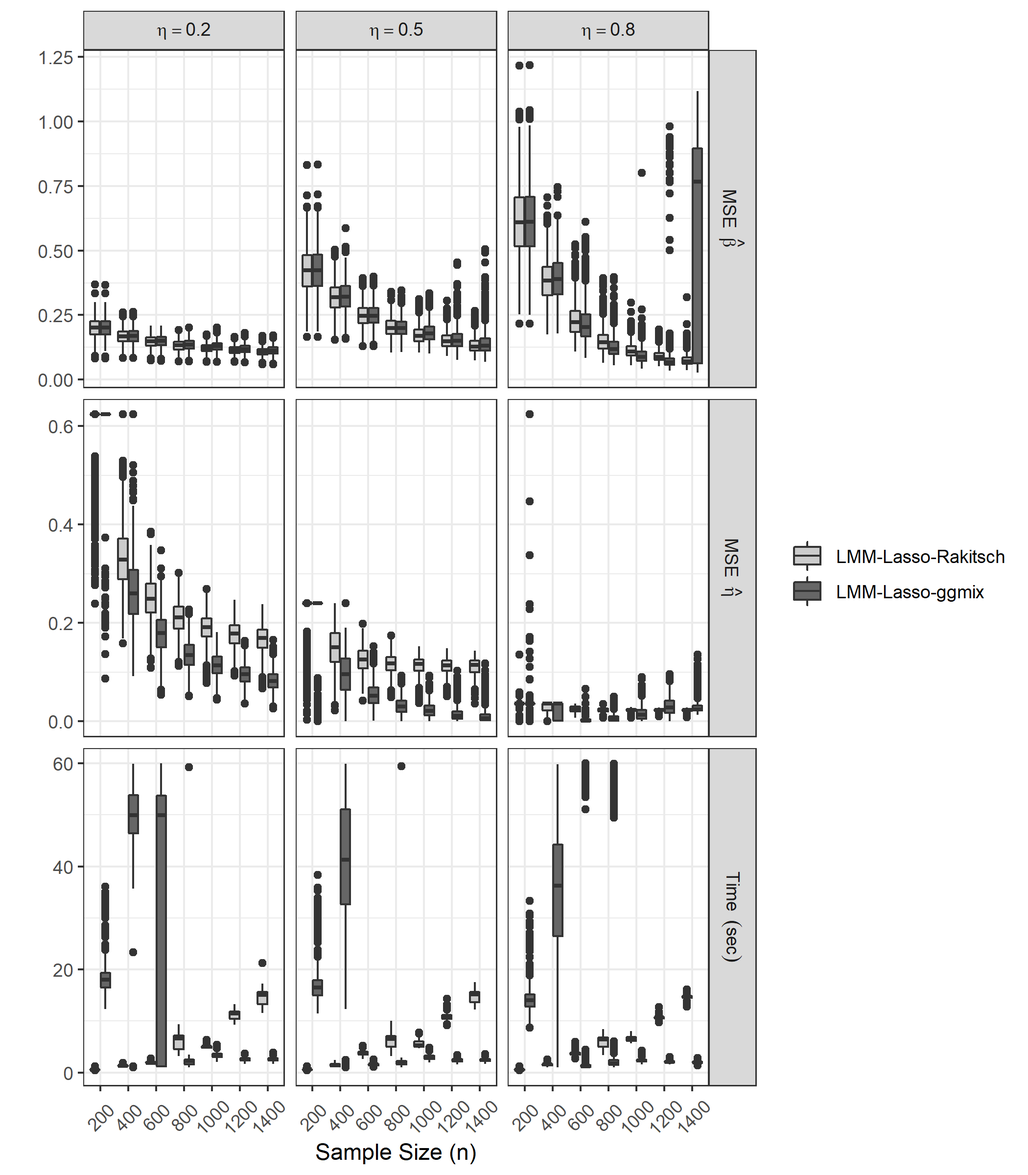
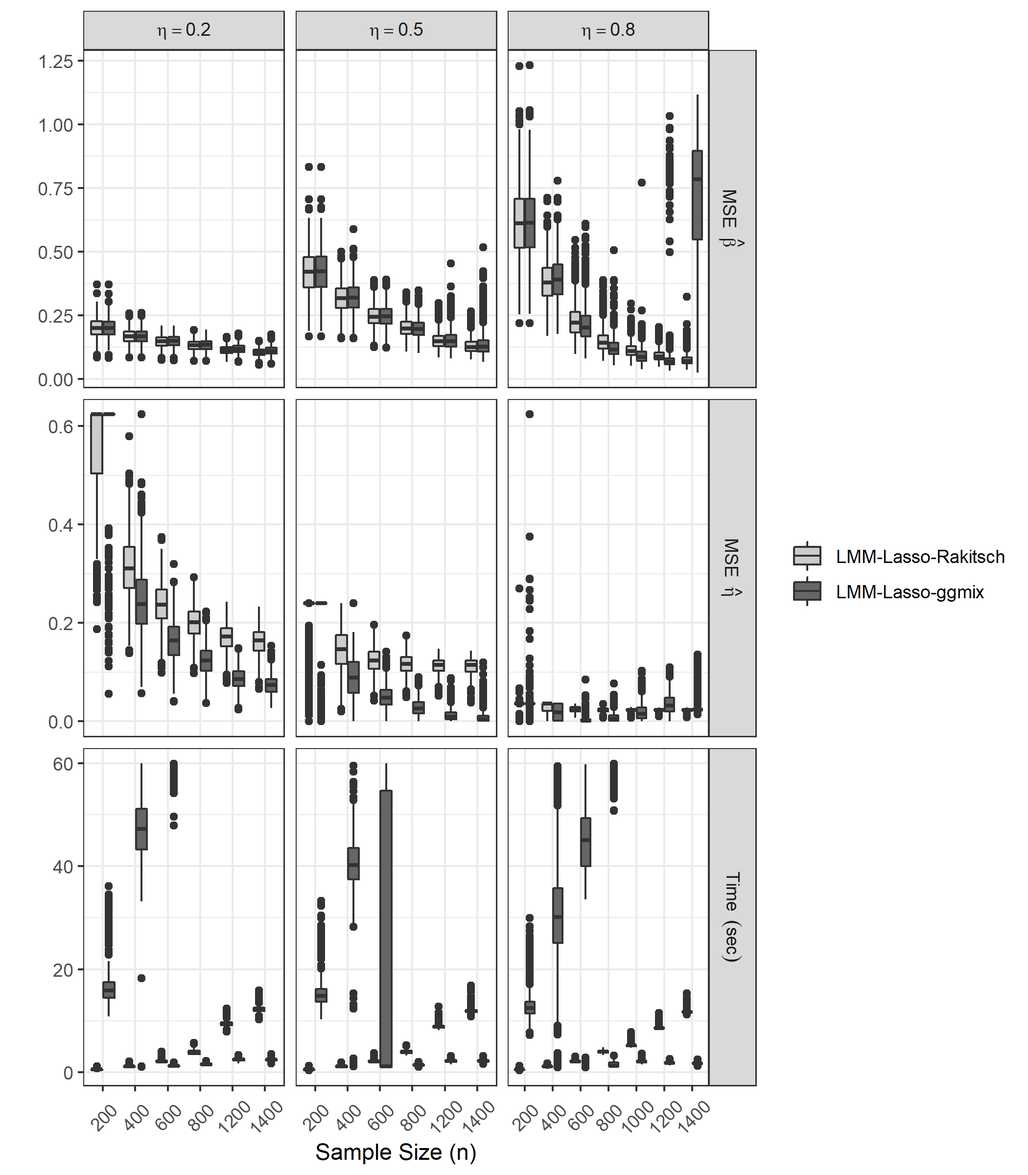
Updating paper figs (dichotomous-discordant change) and descriptions

diff --git a/main.tex b/main.tex
@@ -325,7 +325,7 @@ Environmental effects may be complex in different ways. Firstly, we considered w
     \caption{An illustration of four distinct patterns of environmental effects and corresponding $\bgamma$ values in the presence of 10 subpopulations ordered by genetic similarity.}
     \label{fig:gamma_structures}
 \end{figure}
-\noindent In the case of concordant and dichotomous effects, Figure \ref{fig:gamma_structures} shows that the first five ordered subpopulations are subject to an effect size of 1, while the second five are subject to an effect size of $-$1. In the case of discordant dichotomous effects, the first five subpopulations experience an effect size with an absolute value of \anna{1}, and the second five an absolute effect size of \anna{0.5}. However, the directions of these absolute effects sizes alternate among the ordered subpopulations so that genetically similar subpopulations do not experience similar environmental effects. \anna{not quite 1 and 0.5 because of centering and standardization...how to word this so it's not confusing? - trying better version of dichotomous-discordant...}
+\noindent In the case of concordant and dichotomous effects, Figure \ref{fig:gamma_structures} shows that the first five ordered subpopulations are subject to an effect size of 1, while the second five are subject to an effect size of $-$1. In the case of discordant dichotomous effects, all subpopulations again experience an effect size with an absolute value of 1, however, the directions of these effects alternate among the ordered subpopulations so that genetically similar subpopulations do not experience similar environmental effects. 
 
 \subsubsection{Tuning parameter selection}
 Selection of the tuning parameter $\lambda$ plays an important role in all penalized regression methods, with many possible approaches. Here, for each model, we selected the $\lam$ value such that 50 SNPs were selected (recall that 50 is also the true number of causal SNPs). This method for selecting $\lambda$ was chosen in an attempt to compare the performance of all methods fairly, and as a strategy to evaluate methods in terms of variable selection, as it allows for direct comparison of the first 50 variables each method lets into the model.
@@ -347,20 +347,13 @@ Although cross-validation and information criterion-based methods are commonly u
 \subsection{PC-Lasso and LMM-Lasso outperform the ordinary Lasso in the presence of environmental confounding}
 %------------------------------%
 
-We begin by comparing the ordinary Lasso, PC-Lasso, and LMM-Lasso as the level of environmental confounding is varied. Estimation accuracy for Lasso, PC-Lasso, and LMM-Lasso was evaluated based on mean squared error (MSE) and broken down into bias and variance components. Figure \ref{fig:mse} presents these results for all three data types in a 1:1 signal to noise (SNR) setting, where $\eta = 0.5$. The top row of Figure \ref{fig:mse} shows that when $\xi = 0$ (i.e., no environmental confounding), Lasso and LMM-Lasso perform comparably. PC-Lasso results in a slight inflation in MSE compared to the other methods due to the fact that 10 additional predictors (PCs) have been added to the model, but none of them actually explain any variability in the outcome. 
+We begin by comparing the ordinary Lasso, PC-Lasso, and LMM-Lasso as the level of environmental confounding is varied. Estimation accuracy for Lasso, PC-Lasso, and LMM-Lasso was evaluated based on mean squared error (MSE) and broken down into bias and variance components. Figure \ref{fig:mse} presents these results for all three data types in a 1:1 signal to noise (SNR) setting, where $\eta = 0.5$. The top row of Figure \ref{fig:mse} shows that when $\xi = 0$ (i.e., no environmental confounding), Lasso and LMM-Lasso perform comparably. PC-Lasso results in a slight inflation in MSE compared to the other methods in the simulated data sets due to the fact that 10 additional predictors (PCs) have been added to the model, but none of them actually explain any variability in the outcome. 
 
-The bottom row of Figure \ref{fig:mse} shows the MSE when $\xi = 0.8$. In this case, both PC-Lasso and LMM-Lasso clearly outperform the ordinary Lasso. This improvement is more substantial in the Empirical and Independent Subpopulations data than in the 1D Linear Admixture data. 
+The bottom row of Figure \ref{fig:mse} shows the MSE when $\xi = 0.8$. In this case, both PC-Lasso and LMM-Lasso clearly outperform the ordinary Lasso. This improvement is more substantial in the Empirical and Independent Subpopulations data than in the 1D Linear Admixture data. Qualitatively, this is due to the fact that the Independent Subpopulations and Empirical data sets are characterized by more discrete, nonoverlapping genetic subpopulations, which more directly correspond to the nonoverlapping environmental effects than do the continuous and blended subpopulations of the 1D Linear Admixture data. In other words, a greater proportion of the environmental effect is in the column space of $\boldsymbol{P}_{\bX}$ for the Empirical and Independent Subpopulations data than for the 1D Linear Admixture data. We can quantify the proportion of the environmental component in the column space of $\boldsymbol{P}_{\bX}$ for each data type using the CP metric defined in \eqref{eqn:ratio} of Section \ref{sec:sim_env_conf}. CP $= 0.47, 0.99, 0.61$ for the 1D Linear Admixture, Independent Subpopulations, and Empirical data, respectively. The large CP of the Independent Subpopulations model reflects the extreme confounding and estimation bias for this data, for which the PC-Lasso and LMM-Lasso methods are able to correct. Meanwhile, the less dramatic improvement in MSE for the 1D Linear Admixture data by the PC-Lasso and LMM-Lasso methods confirms what we know from this data's substantially smaller CP value; that there is less confounding and bias which can be corrected for. 
 
-Qualitatively, this is due to the fact that the Independent Subpopulations and Empirical data sets are characterized by more discrete, nonoverlapping genetic subpopulations, which more directly correspond to the nonoverlapping environmental effects than do the continuous and blended subpopulations of the 1D Linear Admixture data. In other words, a greater proportion of the environmental effect is in the column space of $\boldsymbol{P}_{\bX}$ for the Empirical and Independent Subpopulations data than for the 1D Linear Admixture data. We can quantify the proportion of the environmental component in the column space of $\boldsymbol{P}_{\bX}$ for each data type using the CP metric defined in \eqref{eqn:ratio} of Section \ref{sec:sim_env_conf}. CP $= 0.46, 0.99, 0.64$ for the 1D Linear Admixture, Independent Subpopulations, and Empirical data, respectively. The large CP of the Independent Subpopulations model reflects the extreme confounding and estimation bias for this data, for which the PC-Lasso and LMM-Lasso methods are able to correct. Meanwhile, the less dramatic improvement in MSE for the 1D Linear Admixture data by the PC-Lasso and LMM-Lasso methods confirms what we know from this data's substantially smaller CP value; that there is less confounding and bias which can be corrected for.
+Due to the differing sample sizes and subpopulation structures, a direct comparison of the Empirical CP with those from the simulated data sets is not straightforward. We note that the CP decreases in the presence of subpopulations of unequal sizes and with more outbred subpopulations as in the Empirical data. 
 
-Due to the differing sample sizes and subpopulation structures, a direct comparison of the Empirical CP with those from the simulated data sets is more complex... this increases with equal subpopulation sizes
-
-\anna{\textbf{check this value for sampsizes of 588 for admixture and independent...maybe even diff subpop sizes? at least to pin down the issue - more comparable with same sampesize and subpop sizes but still different...}}
- 
- \anna{correlation between columns of X..., mspe vs mse- for various reasons CP is a reasonable measure but not perfect...} 
- 
- 
-\anna{with the same sample size and subpopulation structure as the vanderwas data, I can replicate the CP for the indepenent subpopulations data when simulating using a lower Fst value (as defined in the ochoa and storey papers: the mean inbreeding coefficient of the individuals’ local populations relative to their last common ancestral population. This FST naturally yields a useful pairwise FST between individuals.) So, this suggests that the greater improvement in the semi-empirical data is because there is less inbreeding (?????) still thinking about this...}
+% \anna{MSPE here (?)}
 
 \begin{figure}[H]
     \centering
@@ -380,11 +373,11 @@ $\eta$ & $\xi$ & \multicolumn{1}{c}{Method} & 1D Linear Admixture & Independent 
 \midrule
 \multirow{6}{*}{0.5} & \multirow{3}{*}{0} & Lasso & 0.25 (0.05) & 0.23 (0.05) & 0.37 (0.06) \\ 
 & & PC-Lasso & 0.23 (0.05) & 0.21 (0.05) & 0.36 (0.06) \\ 
-& & LMM-Lasso & 0.25 (0.05) & 0.23 (0.05) & 0.41 (0.06) \\
+& & LMM-Lasso & 0.25 (0.05) & 0.23 (0.05) & 0.41 (0.06) \\ 
 \cmidrule{2-6}
-& \multirow{3}{*}{0.8} & Lasso & 0.23 (0.05) & 0.25 (0.05) & 0.29 (0.06) \\ 
-& & PC-Lasso & 0.28 (0.05) & 0.36 (0.06) & 0.47 (0.06) \\ 
-& & LMM-Lasso & 0.29 (0.05) & 0.39 (0.06) & 0.58 (0.06) \\ 
+& \multirow{3}{*}{0.8} & Lasso & 0.24 (0.05) & 0.26 (0.06) & 0.29 (0.06) \\
+& & PC-Lasso & 0.28 (0.05) & 0.36 (0.06) & 0.46 (0.06) \\ 
+& & LMM-Lasso & 0.28 (0.05) & 0.39 (0.06) & 0.57 (0.05) \\
 \bottomrule
 \end{tabularx}
 \caption{True positive rates, mean (SD), for different data types in the presence and absence of environmental confounding with coarse subpopulation structure and dichotomous-discordant environmental effects.}
@@ -395,9 +388,11 @@ $\eta$ & $\xi$ & \multicolumn{1}{c}{Method} & 1D Linear Admixture & Independent 
 \subsection{LMM-Lasso outperforms PC-Lasso in the presence of fine subpopulation structure}
 %------------------------------%
 
-Given the superior performance of PC-Lasso and LMM-Lasso compared to the ordinary Lasso in the presence of environmental confounding, we next compare these methods in the presence of fine and coarse subpopulation structures. Phenotypes were simulated using a 1:1 SNR, $\eta = 0.5$, and varying levels of environmental confounding, $\xi \in \{0.2, 0.5,0.8\}$. Figure \ref{fig:big_vs_small} summarizes the results of these simulations for the Independent Subpopulations simulated $\bX$ with environmental confounding generated using a dichotomous-discordant $\bgamma$ structure, though qualitatively similar results were observed for the other data types and $\bgamma$ structures. The y-axis displays the difference in MSE (PC-Lasso - LMM-Lasso) for each simulation and for the various subpopulation structures. The dashed horizontal line at 0 indicates no difference in the performance of PC-Lasso and LMM-Lasso, while differences greater than 0 correspond to smaller MSE for LMM-Lasso, and thus superior estimation accuracy. 
+Given the superior performance of PC-Lasso and LMM-Lasso compared to the ordinary Lasso in the presence of environmental confounding, we next compare these methods in the presence of fine and coarse subpopulation structures. Phenotypes were simulated using a 1:1 SNR, $\eta = 0.5$, and varying levels of environmental confounding, $\xi \in \{0.2, 0.5,0.8\}$. 
 
-In the presence of coarse population structure, there is some overlap in the estimation accuracy of PC-Lasso and LMM-Lasso, as evidenced by the corresponding boxes straddling the 0 line. However, the majority of these boxes fall above 0, particularly for lower $\eta$ values, indicating the superior performance of LMM-Lasso. In the presence of fine population structure, LMM-Lasso is clearly superior to PC-Lasso in estimation accuracy. This is consistent with \citet{hoffman2013correcting}, who showed that principal component adjustment methods represent a low dimensional approximation to linear mixed models. As such, it is reasonable that PC-Lasso, which corrects for population structure using a low dimensional set of surrogate variables, would perform reasonably well in the coarse subpopulation setting, but fall short in the presence of fine structure. 
+Figure \ref{fig:big_vs_small} summarizes the results of these simulations for the Independent Subpopulations simulated $\bG$ with environmental confounding generated using a dichotomous-discordant $\bgamma$ structure, though qualitatively similar results were observed for the other data types and $\bgamma$ structures. The y-axis displays the difference in MSE (PC-Lasso - LMM-Lasso) for each simulation and for the various subpopulation structures. The dashed horizontal line at 0 indicates no difference in the performance of PC-Lasso and LMM-Lasso, while differences greater than 0 correspond to smaller MSE for LMM-Lasso, and thus superior estimation accuracy. 
+
+In the presence of coarse population structure, there is some overlap in the estimation accuracy of PC-Lasso and LMM-Lasso, as evidenced by the corresponding boxes straddling the 0 line. However, the majority of these boxes fall above 0, indicating the superior performance of LMM-Lasso. In the presence of fine population structure, LMM-Lasso is clearly superior to PC-Lasso in estimation accuracy across all levels of environmental confounding. This is consistent with \citet{hoffman2013correcting}, who showed that principal component adjustment methods represent a low dimensional approximation to linear mixed models. As such, it is reasonable that PC-Lasso, which corrects for population structure using a low dimensional set of surrogate variables, would perform reasonably well in the coarse subpopulation setting, but fall short in the presence of fine structure. 
 \begin{figure}[H]
     \centering
     % \includegraphics[scale = 0.9]{figures/mse_diff_subpops}
@@ -411,7 +406,9 @@ In the presence of coarse population structure, there is some overlap in the est
 \subsection{LMM-Lasso outperforms PC-Lasso when environmental effects are discordant}
 %------------------------------%
 
-In addition to evaluating PC-Lasso and LMM-Lasso in the presence of coarse and fine subpopulation structure, we also consider distinct patterns of environmental effects. Figure \ref{fig:big_small_gamma} shows the difference in MSE (PC-Lasso - LMM-Lasso) broken down by both subpopulation and coefficient structure. Results are shown for phenotypes generated with $\eta = 0.5$, $\xi = 0.8$, and the Independent Subpopulations simulated $\bX$. The right-hand panels of Figure \ref{fig:big_small_gamma} are consistent with Figure \ref{fig:big_vs_small}, showing superior LMM-Lasso performance in the presence of fine subpopulation structure, regardless of coefficient magnitude or concordance. The upper left hand panel of Figure \ref{fig:big_small_gamma} corresponds to coarse subpopulation structure with discordant coefficients and also appears to be a setting where LMM-Lasso outperforms PC-Lasso, regardless of coefficient magnitude, although there is some overlap with PC-Lasso. The lower left hand panel of Figure \ref{fig:big_small_gamma} shows results for the setting of coarse supopulation structure with concordant coefficients. In this setting, PC-Lasso and LMM-Lasso perform comparably in the presence of exponential-concordant environmental effects, while PC-Lasso outperforms LMM-Lasso in the majority of dichotomous-concordant environmental effects. These findings are in line with our initial hypothesis that PC-Lasso will perform well in the presence of environmental effects that can be well-approximated by a linear combination of the observed data. When that is not the case, either due to the presence of fine subpopulation structure, nonlinear environmental effects, or genetic similarity that does not reflect similar environmental effects, LMM-Lasso exhibits estimation accuracy superior to that of PC-Lasso.
+In addition to evaluating PC-Lasso and LMM-Lasso in the presence of coarse and fine subpopulation structure, we also consider distinct patterns of environmental effects. Figure \ref{fig:big_small_gamma} shows the difference in MSE (PC-Lasso - LMM-Lasso) broken down by both subpopulation and coefficient structure. Results are shown for phenotypes generated with $\eta = 0.5$, $\xi = 0.8$, and the Independent Subpopulations simulated $\bG$. 
+
+The right-hand panels of Figure \ref{fig:big_small_gamma} are consistent with Figure \ref{fig:big_vs_small}, showing superior LMM-Lasso performance in the presence of fine subpopulation structure, regardless of coefficient magnitude or concordance. The upper left hand panel of Figure \ref{fig:big_small_gamma} corresponds to coarse subpopulation structure with discordant coefficients and also appears to be a setting where LMM-Lasso outperforms PC-Lasso, regardless of coefficient magnitude, although there is some overlap with PC-Lasso. The lower left hand panel of Figure \ref{fig:big_small_gamma} shows results for the setting of coarse supopulation structure with concordant coefficients. In this setting, PC-Lasso and LMM-Lasso perform comparably in the presence of exponential-concordant environmental effects, while LMM-Lasso outperforms PC-Lasso in the majority of dichotomous-concordant environmental effects. These findings align with our initial hypothesis that PC-Lasso will perform well in the presence of simple environmental effect patterns that can be well-approximated by a linear combination of the observed data. When that is not the case, either due to the presence of fine subpopulation structure, dichotomous effects, or genetic similarity that does not reflect similar environmental effects, LMM-Lasso exhibits estimation accuracy superior to that of PC-Lasso.
 
 \begin{figure}[H]
     \centering
@@ -454,20 +451,18 @@ LMM-Lasso-ggmix's poor performance in these scenarios are likely attributable to
 
 In this work, we have reviewed the concept of population stratification and explicitly defined an environmental mechanism by which it may confound the genotype-phenotype relationship. We have provided a broad outline of existing methods for ameliorating the effects of these unobserved confounding influences. In addition, we have provided a thorough review of two popular approaches for correcting for population structure in genetic data: PC-Lasso and LMM-Lasso. 
 
-We have detailed the assumptions made by PC-Lasso and LMM-Lasso, which model confounding influences as fixed and random effects, respectively. We have also described the ways in which simulation schemes to evaluate these methods may fail to accurately capture the effects of environmental heterogeneity. In turn, we propose and utilize a simulation approach in which the estimation bias introduced by environmental heterogeneity may be evaluated. We then compare the estimation accuracy of an ordinary Lasso, PC-Lasso, and LMM-Lasso in various confounding scenarios.
+We have detailed the assumptions made by PC-Lasso and LMM-Lasso, which model confounding influences as fixed and random effects, respectively. We have also described the ways in which simulation schemes to evaluate these methods may fail to accurately capture the effects of environmental heterogeneity. In turn, we propose and utilize a simulation approach in which the estimation bias introduced by environmental heterogeneity may be evaluated. We then compare the estimation and variable selection accuracy of the ordinary Lasso, PC-Lasso, and LMM-Lasso in various confounding scenarios.
 
-Unsurprisingly, we find that PC-Lasso and LMM-Lasso outperform the ordinary Lasso whenever environmental confounding effects are present. However, in the absence of such effects, PC-Lasso may hinder estimation accuracy and perform more poorly than even the ordinary Lasso. This is due to the fact that the principal components are unpenalized and thus included in the final model, even when they do more harm than good in explaining phenotypic variability. Additionally, we find that LMM-Lasso outperforms PC-Lasso in the presence of fine subpopulation structure and when confounding effects are nonlinear and discordant in nature. In the presence of coarse subpopulation structure which corresponds to concordant, dichotomous environmental effects, PC-Lasso may outperform LMM-Lasso in estimation accuracy. However, LMM-Lasso is more robust to subpopulation structure as well as nonlinear and discordant environmental effects. Therefore, LMM-Lasso is a more robust method for practitioners seeking to obtain unbiased estimates when the exact nature of the population structure and corresponding environmental heterogeneity are unknown.  
+Unsurprisingly, we find that PC-Lasso and LMM-Lasso outperform the ordinary Lasso whenever environmental confounding effects are present. However, in the absence of such effects, PC-Lasso may hinder estimation accuracy and perform more poorly than even the ordinary Lasso. This is due to the fact that the principal components are unpenalized and thus included in the final model, even when they do more harm than good in explaining phenotypic variability. Additionally, we find that LMM-Lasso outperforms PC-Lasso in the presence of fine subpopulation structure and when confounding effects are discordant in nature. In the presence of coarse subpopulation structure and exponential environmental effects, PC-Lasso performs comparably to LMM-Lasso in estimation accuracy. However, LMM-Lasso is more robust to subpopulation structure and complex patterns of environmental effects. Therefore, LMM-Lasso may be a more robust method for practitioners seeking to obtain unbiased estimates when the nature of the population structure and environmental heterogeneity are unknown.  
 
-We considered two implementations of the LMM-Lasso method: LMM-Lasso-Rakitsch and LMM-Lasso-ggmix, which differ in their variance estimation procedures and computational implementations. Although we found that both methods perform similarly in terms of $\bbeta$ estimation accuracy, LMM-Lasso-ggmix has several drawbacks. Firstly, it suffers from estimation instability in $n \ge p$ settings. Secondly, although LMM-Lasso-Rakitsch and LMM-Lasso-ggmix perform comparably when $n << p$, LMM-Lasso-ggmix requires up to 60 times the computing time of LMM-Lasso-Rakitsch in these settings due to its iterative estimation procedure. The additional time required of LMM-Lasso-ggmix may be worthwhile if the objective of an analysis is to accurately estimate the narrow-sense heritability in $n << p$ settings. However, the LMM-Lasso-Rakitsch method is more robust to varying levels of environmental confounding and sample sizes and thus considered by the authors to be more broadly applicable. 
+We considered two implementations of the LMM-Lasso method: LMM-Lasso-Rakitsch and LMM-Lasso-ggmix, which differ in their variance estimation procedures and computational implementations. Although we found that both methods perform similarly in terms of $\bbeta$ estimation accuracy, LMM-Lasso-ggmix has several drawbacks. Firstly, it suffers from estimation instability in $n \ge p$ settings. Secondly, although LMM-Lasso-Rakitsch and LMM-Lasso-ggmix perform comparably when $n << p$, LMM-Lasso-ggmix requires up to 60 times the computing time of LMM-Lasso-Rakitsch in these settings due to its iterative estimation procedure. The additional time required of LMM-Lasso-ggmix may be worthwhile if the objective of an analysis is to accurately estimate the narrow-sense heritability in $n << p$ settings. However, the LMM-Lasso-Rakitsch method is more robust to varying levels of environmental confounding and sample sizes and is considered by the authors to be more broadly applicable. 
 
-\citet{Rakitsch2012} parameterize their model in terms of the variance components $\sigmagg$ and $\delta := \sigmaee / \sigmagg$ as previously discussed, however, we have implemented the LMM-Lasso-Rakitsch method using an equivalent but more interpretable parameterization in terms of $\eta$ and $\sigmaee$ in the \texttt{R} package, \texttt{penalizedLMM}, available on the author's github repository \url{https://github.com/areisett/penalizedLMM}.
+\citet{Rakitsch2012} parameterize their model in terms of the variance components $\sigmagg$ and $\delta := \sigmaee / \sigmagg$ as previously discussed, however, we have implemented the LMM-Lasso-Rakitsch method using the equivalent but more interpretable parameterization in terms of $\eta$ and $\sigmaee$ in the \texttt{R} package, \texttt{penalizedLMM}, available on the author's github repository \url{https://github.com/areisett/penalizedLMM}.
 
-As an additional point of interest, recall that we provide qualitative and mathematical explanations of how the degree to which differential environmental exposures may confound the genotype-phenotype relationship is dependent upon its similarity to population structure. While the objective of these explanations, and this work as a whole, is to elucidate the manner in which failing to correct for unobserved environmental effects can bias SNP effect estimates, it also highlights the manner in which such unobserved environmental effects have the potential to inflate residual model variance and bias narrow-sense heritability estimates. A more detailed treatment of narrow-sense heritability estimation is beyond the scope of this paper. However, we hope this emphasizes the broad implications and importance of the subtle distinction between the effect of population structure and unobserved environmental heterogeneity. 
+As an additional point of interest, recall that we provide qualitative and quantitative explanations of how the degree to which differential environmental exposures may confound the genotype-phenotype relationship is dependent upon its similarity to population structure. While the objective of these explanations, and this work as a whole, is to elucidate the manner in which failing to correct for unobserved environmental effects can bias SNP effect estimates, the result shown in \ref{eqn:partition_e} also highlights the manner in which such unobserved and unmodeled environmental effects could lead to substantial bias in narrow-sense heritability estimatess. A more detailed treatment of narrow-sense heritability estimation is beyond the scope of this paper. However, we hope this emphasizes the broad implications and importance of the subtle distinction between the effect of population structure and unobserved environmental heterogeneity. 
 
 Finally, it is worth nothing that even in scenarios where LMM-Lasso outperforms other methods, its estimation accuracy still suffers due to the bias inherent in penalized regression methods. Because of this, bias-reduction techniques for penalized LMMs are an attractive avenue for future research.\\
 
-\anna{HERITABILITY PARAGRAPH}\\
-Although we focus our attention on accurately estimating fixed SNP effects, we note that the result shown in \ref{eqn:partition_e} could lead to substantial bias in narrow-sense heritability estimates. \pb{Hmm...could this sentence be moved somewhere else?  I feel that narrow-sense heritability deserves a paragraph somewhere} 
 
 
 

diff --git a/lmm-genetic-review.tex b/lmm-genetic-review.tex
@@ -85,9 +85,11 @@ Many genetic studies that aim to identify genetic variants associated with compl
 
 \input{main}
 
-\newpage
-
 \bibliographystyle{ims}
 \bibliography{references}
+
+\newpage
+
+\input{supplement}
 
 \end{document}

diff --git a/supplement.tex b/supplement.tex
@@ -1,0 +1,1 @@
+test blah
